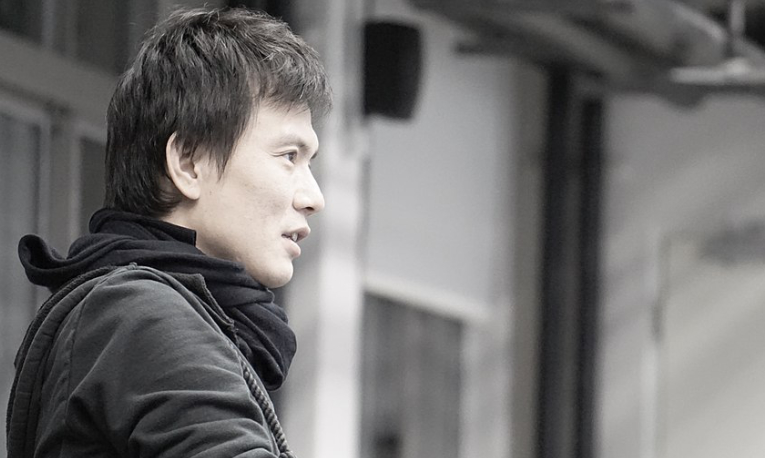
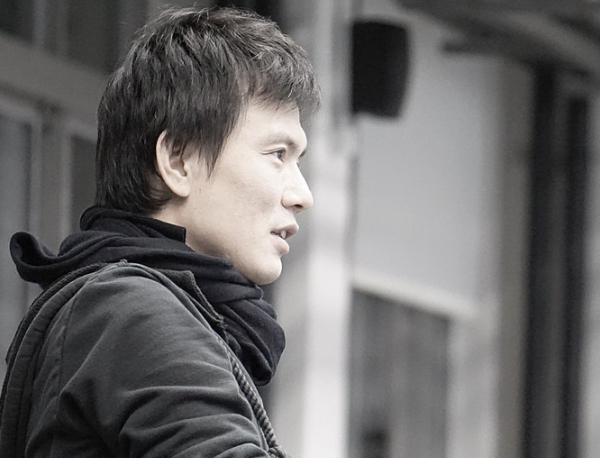
fixed about section, made pic fit

diff --git a/src/index.html b/src/index.html
@@ -10,34 +10,36 @@
 
 <!DOCTYPE html>
 <html lang="en">
-    <head>
-        <meta charset="UTF-8">
-        <meta name="viewport" content="width=device-width, initial-scale=1.0" />
-        <title>Aaron G. Miller | Choreographer</title>
-        <link rel='stylesheet' href='./style.css'>
-    </head>
-    <body>
-        <header>
-            <div class="flex">
-                <a href="/" id="aaronLogoLink"><h1>Aaron G. Miller <span>| Choreographer</span></h1></a>
-                <nav id="mainnav">
-                    <button id="hamburger" class="closed">
-                        <div class="line-1"></div>
-                        <div class="line-3"></div>
-                        <div class="line-2"></div>
-                    </button>
-                    <ul>
-                        <li><a href="#workshops">Workshops</a></li>
-                        <li><a href="#about">About Me</a></li>
-                        <li><a href="#news">News</a></li>
-                    </ul>
-                </nav>
-            </div>
-            <div id="heroText">
-                <h2>I believe <br>you can dance.</h2>
-                <a href="#" class="button">Book Workshop</a>
-            </div>
-        </header>
+	<head>
+		<meta charset="UTF-8" />
+		<meta name="viewport" content="width=device-width, initial-scale=1.0" />
+		<title>Aaron G. Miller | Choreographer</title>
+		<link rel="stylesheet" href="./style.css" />
+	</head>
+	<body>
+		<header>
+			<div class="flex">
+				<a href="/" id="aaronLogoLink"
+					><h1>Aaron G. Miller <span>| Choreographer</span></h1></a
+				>
+				<nav id="mainnav">
+					<button id="hamburger" class="closed">
+						<div class="line-1"></div>
+						<div class="line-3"></div>
+						<div class="line-2"></div>
+					</button>
+					<ul>
+						<li><a href="#workshops">Workshops</a></li>
+						<li><a href="#about">About Me</a></li>
+						<li><a href="#news">News</a></li>
+					</ul>
+				</nav>
+			</div>
+			<div id="heroText">
+				<h2>I believe <br />you can dance.</h2>
+				<a href="#" class="button">Book Workshop</a>
+			</div>
+		</header>
 
 		<main>
 			<section id="workshops">
@@ -46,78 +48,88 @@
 				</p>
 				<h2>If you never start, you will never know.</h2>
 
-                <div class="level">
-                    <div class="icon-circle">
-                        <img src="./images/stretch.svg" alt='Icon showing dancer stretching her leg up to her nose.'>
-                        <p>3</p>
-                    </div>
-                    
-                    <h3>As pro as you can get</h3>
-                    <p class="levelText">Lorem ipsum...</p>
-                    <a href="#" class="button">Book Workshop</a>            
-                    <div class="quote-container">
-                        <img src="./images/quote.svg" alt='quote sign' class="quote-icon">
-                        <blockquote>Respect your talent!</blockquote>
-                    </div>
-                    <p class='apply'>Apply for an audition now!</p>
-                </div>
+				<div class="level">
+					<div class="icon-circle">
+						<img
+							src="./images/stretch.svg"
+							alt="Icon showing dancer stretching her leg up to her nose."
+						/>
+						<p>3</p>
+					</div>
 
-                <div class="level">
-                    <div class="icon-circle">
-                        <img src="./images/up.svg" alt='Icon showing dancer stretching her leg up to her nose.'>
-                        <p>2</p>
-                    </div>
-                    
-                    <h3>As pro as you can get</h3>
-                    <p class="levelText">Lorem ipsum...</p>
-                    <a href="#" class="button">Book Workshop</a>
-                    <div class="quote-container">
-                        <img src="./images/quote.svg" alt='quote sign' class="quote-icon">
-                        <blockquote>Respect your talent!</blockquote>
-                    </div>           
-                    
-                    <p class='apply'>Registration now open for everybody!</p>
-                </div>
-
-                <div class="level">
-                    <div class="icon-circle">
-                        <img src="./images/rise.svg" alt='Icon showing dancer stretching her leg up to her nose.'>
-                        <p>1</p>
-                    </div>
-                    
-                    <h3>Learn the Basics profoundly</h3>
-                    <p class="levelText">Lorem ipsum...</p>
-                    <a href="#" class="button">Book Workshop</a> 
-                    <div class="quote-container">
-                        <img src="./images/quote.svg" alt='quote sign' class="quote-icon">
-                        <blockquote>Respect your talent!</blockquote>
-                    </div>           
-                    
-                    <p class='apply'>Registration now open for everybody!</p>
-                </div>
-
-					<p class="super-headline">Why I teach</p>
-					<h2>Hi, I'm Aaron!</h2>
-					<p id="text_about">
-						Lorem ipsum dolor sit amet consectetur adipisicing elit. Placeat
-						itaque incidunt, nihil, recusandae autem aut perferendis reiciendis
-						a neque veniam quibusdam animi ex tempora reprehenderit, aspernatur
-						asperiores consequatur consectetur ipsum!
-					</p>
-					<p id="text_about">
-						Lorem ipsum dolor sit amet consectetur adipisicing elit. Placeat
-						itaque incidunt, nihil, recusandae autem aut perferendis reiciendis
-						a neque veniam quibusdam animi ex tempora reprehenderit, aspernatur
-						asperiores consequatur consectetur ipsum! Lorem ipsum dolor sit amet
-						consectetur adipisicing elit. Placeat itaque incidunt, nihil,
-						recusandae autem aut perferendis reiciendis a neque veniam quibusdam
-						animi ex tempora reprehenderit, aspernatur asperiores consequatur
-						consectetur ipsum!
-					</p>
-
-					<a>Learn more</a>
-					<!-- styled as button -->
+					<h3>As pro as you can get</h3>
+					<p class="levelText">Lorem ipsum...</p>
+					<a href="#" class="button">Book Workshop</a>
+					<div class="quote-container">
+						<img src="./images/quote.svg" alt="quote sign" class="quote-icon" />
+						<blockquote>Respect your talent!</blockquote>
+					</div>
+					<p class="apply">Apply for an audition now!</p>
 				</div>
+
+				<div class="level">
+					<div class="icon-circle">
+						<img
+							src="./images/up.svg"
+							alt="Icon showing dancer stretching her leg up to her nose."
+						/>
+						<p>2</p>
+					</div>
+
+					<h3>As pro as you can get</h3>
+					<p class="levelText">Lorem ipsum...</p>
+					<a href="#" class="button">Book Workshop</a>
+					<div class="quote-container">
+						<img src="./images/quote.svg" alt="quote sign" class="quote-icon" />
+						<blockquote>Respect your talent!</blockquote>
+					</div>
+
+					<p class="apply">Registration now open for everybody!</p>
+				</div>
+
+				<div class="level">
+					<div class="icon-circle">
+						<img
+							src="./images/rise.svg"
+							alt="Icon showing dancer stretching her leg up to her nose."
+						/>
+						<p>1</p>
+					</div>
+
+					<h3>Learn the Basics profoundly</h3>
+					<p class="levelText">Lorem ipsum...</p>
+					<a href="#" class="button">Book Workshop</a>
+					<div class="quote-container">
+						<img src="./images/quote.svg" alt="quote sign" class="quote-icon" />
+						<blockquote>Respect your talent!</blockquote>
+					</div>
+
+					<p class="apply">Registration now open for everybody!</p>
+				</div>
+			</section>
+			<section id="about">
+				<img src="images/aaron_2.jpg" alt="Aaron Miller sideprofile" />
+				<p class="super-headline">Why I teach</p>
+				<h2>Hi, I'm Aaron!</h2>
+				<p id="text_about">
+					Lorem ipsum dolor sit amet consectetur adipisicing elit. Placeat
+					itaque incidunt, nihil, recusandae autem aut perferendis reiciendis a
+					neque veniam quibusdam animi ex tempora reprehenderit, aspernatur
+					asperiores consequatur consectetur ipsum!
+				</p>
+				<p id="text_about">
+					Lorem ipsum dolor sit amet consectetur adipisicing elit. Placeat
+					itaque incidunt, nihil, recusandae autem aut perferendis reiciendis a
+					neque veniam quibusdam animi ex tempora reprehenderit, aspernatur
+					asperiores consequatur consectetur ipsum! Lorem ipsum dolor sit amet
+					consectetur adipisicing elit. Placeat itaque incidunt, nihil,
+					recusandae autem aut perferendis reiciendis a neque veniam quibusdam
+					animi ex tempora reprehenderit, aspernatur asperiores consequatur
+					consectetur ipsum!
+				</p>
+
+				<a>Learn more</a>
+				<!-- styled as button -->
 			</section>
 			<section id="news">
 				<p class="super-headline">Making waves since 2004</p>

diff --git a/src/sass/about.scss b/src/sass/about.scss
@@ -1,13 +1,9 @@
 @include breakpoint(0, $mobile) {
 	#about {
-		div {
-			background: #fff7f2 0% 0% no-repeat padding-box;
-			width: 100vw;
-			padding-bottom: 3rem;
-		}
+		background: #fff7f2 0% 0% no-repeat padding-box;
+		padding: 3rem 0;
 		img {
 			width: 100%;
-			height: 458px;
 			object-fit: cover;
 			margin-bottom: 1rem;
 		}
